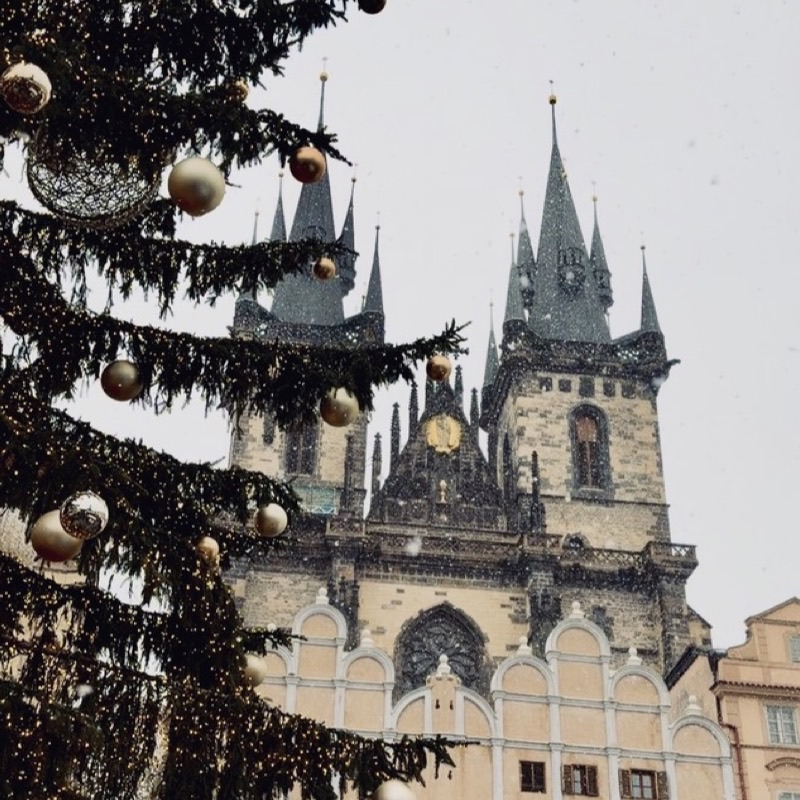
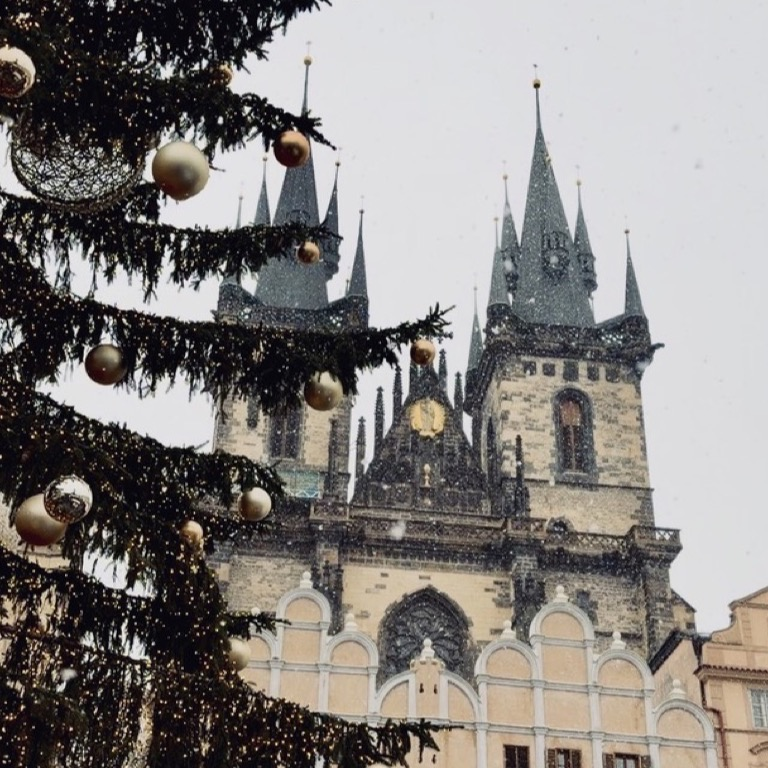
chore: crop the welcome images 2%, and draft the 1.3.0 store listing
The welcome carousel photos had white edges showing at the card borders.
All five cropped 800 to 768 square, which takes 2% off each side.
Originals are in git history if any of them lose something that matters.

store/app-store-listing.md has every App Store Connect field with its
character count: name, subtitle, promotional text, keywords, description
and What's New.

The What's New deliberately describes what a user experiences rather
than what we did. "Your balance now lives on our servers" is true and
useful to them; the reason it moved is not something to publish in a
release note.

diff --git a/store/app-store-listing.md b/store/app-store-listing.md
@@ -1,0 +1,86 @@
+# TuneMatch - App Store listing (1.3.0)
+
+Paste each block into the matching field in App Store Connect. Character limits noted.
+
+## App name (30 max)
+
+TuneMatch: Photo to Song
+
+(23 characters. Alternative if you want the category word visible in search:
+"TuneMatch - Music for Photos", 28 characters.)
+
+## Subtitle (30 max)
+
+Find the song for your photo
+
+(28 characters.)
+
+## Promotional text (170 max, editable without a review)
+
+Two free matches to start, one every day after. Pick a photo, pick a vibe, get
+three songs that fit it - with a line explaining why each one works.
+
+(151 characters.)
+
+## Keywords (100 max, comma separated, no spaces after commas)
+
+photo,song,music,vibe,mood,playlist,spotify,soundtrack,aesthetic,camera roll,picture,match
+
+(89 characters.)
+
+## Description (4000 max)
+
+Pick a photo. Pick a vibe. Get three songs that fit it.
+
+TuneMatch looks at what is actually in the picture - the light, the setting, the
+mood - and comes back with three songs, each with a line telling you why it
+suits that shot. Play a preview in the app, or open the track in Spotify.
+
+Four vibes: Hype, Chill, Romantic and Moody. The same photo gives you different
+songs depending on which one you choose, so a beach at sunset can be a party or
+a comedown.
+
+Every match is saved to your Vault. The song you found for one August evening is
+still there in December.
+
+Connect Spotify and matches are tuned to what you actually listen to, so you get
+songs from artists you like rather than whatever is popular. It is optional and
+the app works without it.
+
+WHAT IT COSTS
+
+You get two matches when you start and one free match every day at 9am. If you
+want more than that, match packs start at five. TuneMatch Pro gives you ten
+matches a day.
+
+NO ACCOUNT NEEDED
+
+You can use TuneMatch, buy matches and keep your Vault without signing up. Make
+an account when you want the same Vault on a second phone.
+
+WHAT PEOPLE USE IT FOR
+
+Finding the right song before posting a photo dump. Turning a trip's camera roll
+into a playlist. Settling the argument about what to put on when a picture has a
+mood nobody can name.
+
+## What's New (4000 max) - for 1.3.0
+
+Your matches now live on our servers instead of only on your phone. Your balance
+is the same wherever you sign in, it survives a reinstall, and it stops drifting
+when the connection does.
+
+Fixed: a match that failed part way through still cost you one. It doesn't now,
+and if anything goes wrong after we've taken it, you get it straight back.
+
+Fixed: retrying the same photo could charge you twice.
+
+Fixed: subscribing to Pro left the upgrade screen showing until you reopened
+the app.
+
+Fixed: a purchase that took a moment to confirm sometimes needed the app
+reopened before it arrived. It lands on its own now.
+
+Fixed: the Profile screen needed scrolling to reach Terms and Privacy.
+
+New: two matches when you start, and a free one every day at 9am.
